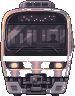
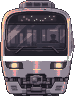
Train: no see-through holes, arrives along the rails with perspective
- Front train art: holes filled, lower front panel redrawn (PixelLab inpaint)
- Arrival comes out of the rails' vanishing point and grows with the track's
  perspective, braking into the platform; fades in from the haze

diff --git a/lib/core/pixel/pixel_scene.dart b/lib/core/pixel/pixel_scene.dart
@@ -54,8 +54,26 @@ class SceneArt {
     return file.substring(0, file.lastIndexOf('_'));
   }
 
-  /// Where the train is when it first appears, far down the line.
-  static const trainFar = Rect.fromLTWH(trainLeft + 33, 60, 9, 11.5);
+  /// Where the rails meet far down the line (the same in every station
+  /// picture). The arriving train comes from here along the track.
+  static const vanishing = Offset(228, 93.5);
+
+  /// How big the train is when it first appears (1 = at the platform).
+  static const trainFarScale = 0.07;
+
+  /// The train at [scale] (1 = at the platform) on its track: its bottom
+  /// middle slides from [vanishing] to the platform position and it grows
+  /// with the same perspective as the rails.
+  static Rect trainAt(double scale) {
+    const foot = Offset(trainLeft + trainWidth / 2, trainTop + trainHeight);
+    final f = vanishing + (foot - vanishing) * scale;
+    return Rect.fromLTWH(
+      f.dx - trainWidth * scale / 2,
+      f.dy - trainHeight * scale,
+      trainWidth * scale,
+      trainHeight * scale,
+    );
+  }
 
   /// Where the train stands in scene pixels. Tuned so the wheels sit on the
   /// rails of the empty track.
@@ -631,24 +649,36 @@ class _ScenePainter extends CustomPainter {
   };
 
   /// Where the train is drawn now: it comes up the line, growing as it nears.
-  Rect get _trainNow {
+  Rect get _trainNow => SceneArt.trainAt(_trainScale);
+
+  /// The train's size now (1 = at the platform). It runs down the line at
+  /// a steady braking: its distance shrinks like (1 - t)², and things look
+  /// 1/distance big, so it stays small far away, then grows quickly and
+  /// eases to a stop at the platform.
+  double get _trainScale {
     final a = arrive?.value ?? 1;
-    if (a >= 1) return SceneArt.trainRect;
-    // Fast at first, braking gently into the platform.
-    final t = Curves.easeOutQuad.transform(a);
-    return Rect.lerp(SceneArt.trainFar, SceneArt.trainRect, t)!;
+    if (a >= 1) return 1;
+    const far = 1 / SceneArt.trainFarScale;
+    final distance = 1 + (far - 1) * (1 - a) * (1 - a);
+    return 1 / distance;
   }
 
   /// Draws [draw] (made for the train at its stop) where the train is now.
   void _atTrain(Canvas canvas, void Function() draw) {
     final r = _trainNow;
     if (r == SceneArt.trainRect) return draw();
+    // Far down the line it comes out of the haze.
+    final fade = ((_trainScale - SceneArt.trainFarScale) / 0.08).clamp(0.0, 1.0);
+    if (fade < 1) {
+      canvas.saveLayer(null, Paint()..color = Color.fromRGBO(0, 0, 0, fade));
+    }
     canvas.save();
     canvas.translate(r.left, r.top);
     canvas.scale(r.width / SceneArt.trainRect.width, r.height / SceneArt.trainRect.height);
     canvas.translate(-SceneArt.trainRect.left, -SceneArt.trainRect.top);
     draw();
     canvas.restore();
+    if (fade < 1) canvas.restore();
   }
 
   final List<String> led;

diff --git a/tools/fill_train_holes.py b/tools/fill_train_holes.py
@@ -1,0 +1,60 @@
+"""Fills the see-through holes inside the front train art
+(assets/art/train_front_base_*.png): between the headlights, the lower
+front panel and the right side. Every hole pixel inside the train's outline
+(per row, between its leftmost and rightmost solid pixel) takes the most
+common solid colour around it, so the fill stays in the art's own palette
+(no blur). The stripe band (train_front_stripe.png) is left as it is.
+
+  python tools/fill_train_holes.py
+
+After this, the lower front panel (rows 61-80) was redrawn with PixelLab
+inpaint (day picture), toned to the body greys, and carried over to the
+evening and night pictures by their colour mapping (2026-11-19).
+"""
+import collections
+import os
+
+from PIL import Image
+
+ROOT = os.path.dirname(os.path.dirname(os.path.abspath(__file__)))
+ART = os.path.join(ROOT, 'assets', 'art')
+
+
+def fill(path, stripe):
+    im = Image.open(path).convert('RGBA')
+    px, sp = im.load(), stripe.load()
+    w, h = im.size
+    holes = set()
+    for y in range(h):
+        solid = [x for x in range(w) if px[x, y][3] > 128 or sp[x, y][3] > 128]
+        if not solid:
+            continue
+        for x in range(min(solid), max(solid) + 1):
+            if px[x, y][3] <= 128 and sp[x, y][3] <= 128:
+                holes.add((x, y))
+    # Grow inwards from the edges of each hole, a ring at a time.
+    while holes:
+        done = {}
+        for x, y in holes:
+            near = collections.Counter(
+                px[x + dx, y + dy][:3]
+                for dx in (-2, -1, 0, 1, 2) for dy in (-2, -1, 0, 1, 2)
+                if 0 <= x + dx < w and 0 <= y + dy < h and (x + dx, y + dy) not in holes
+                and px[x + dx, y + dy][3] > 128
+            )
+            if near:
+                done[(x, y)] = near.most_common(1)[0][0]
+        if not done:
+            break
+        for (x, y), c in done.items():
+            px[x, y] = (*c, 255)
+        holes -= done.keys()
+    im.save(path)
+    return len(done)
+
+
+stripe = Image.open(os.path.join(ART, 'train_front_stripe.png')).convert('RGBA')
+for part in ('day', 'evening', 'night'):
+    p = os.path.join(ART, f'train_front_base_{part}.png')
+    fill(p, stripe)
+    print('filled', os.path.basename(p))
